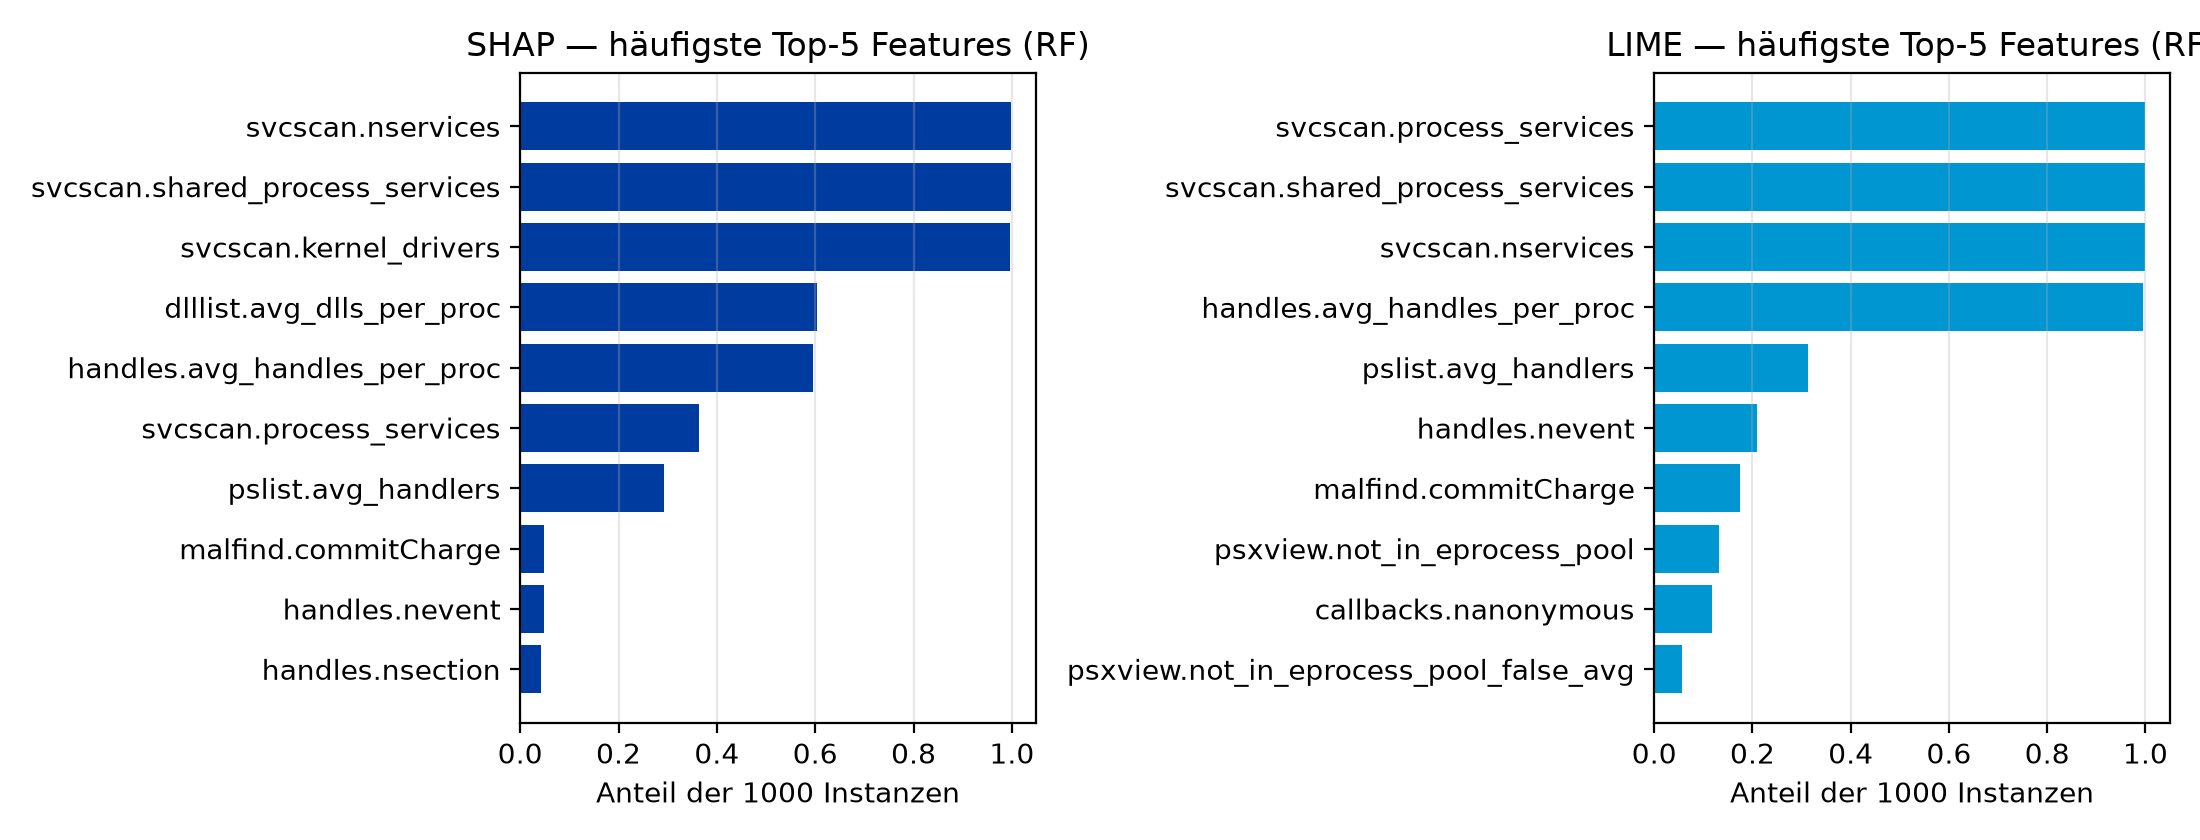
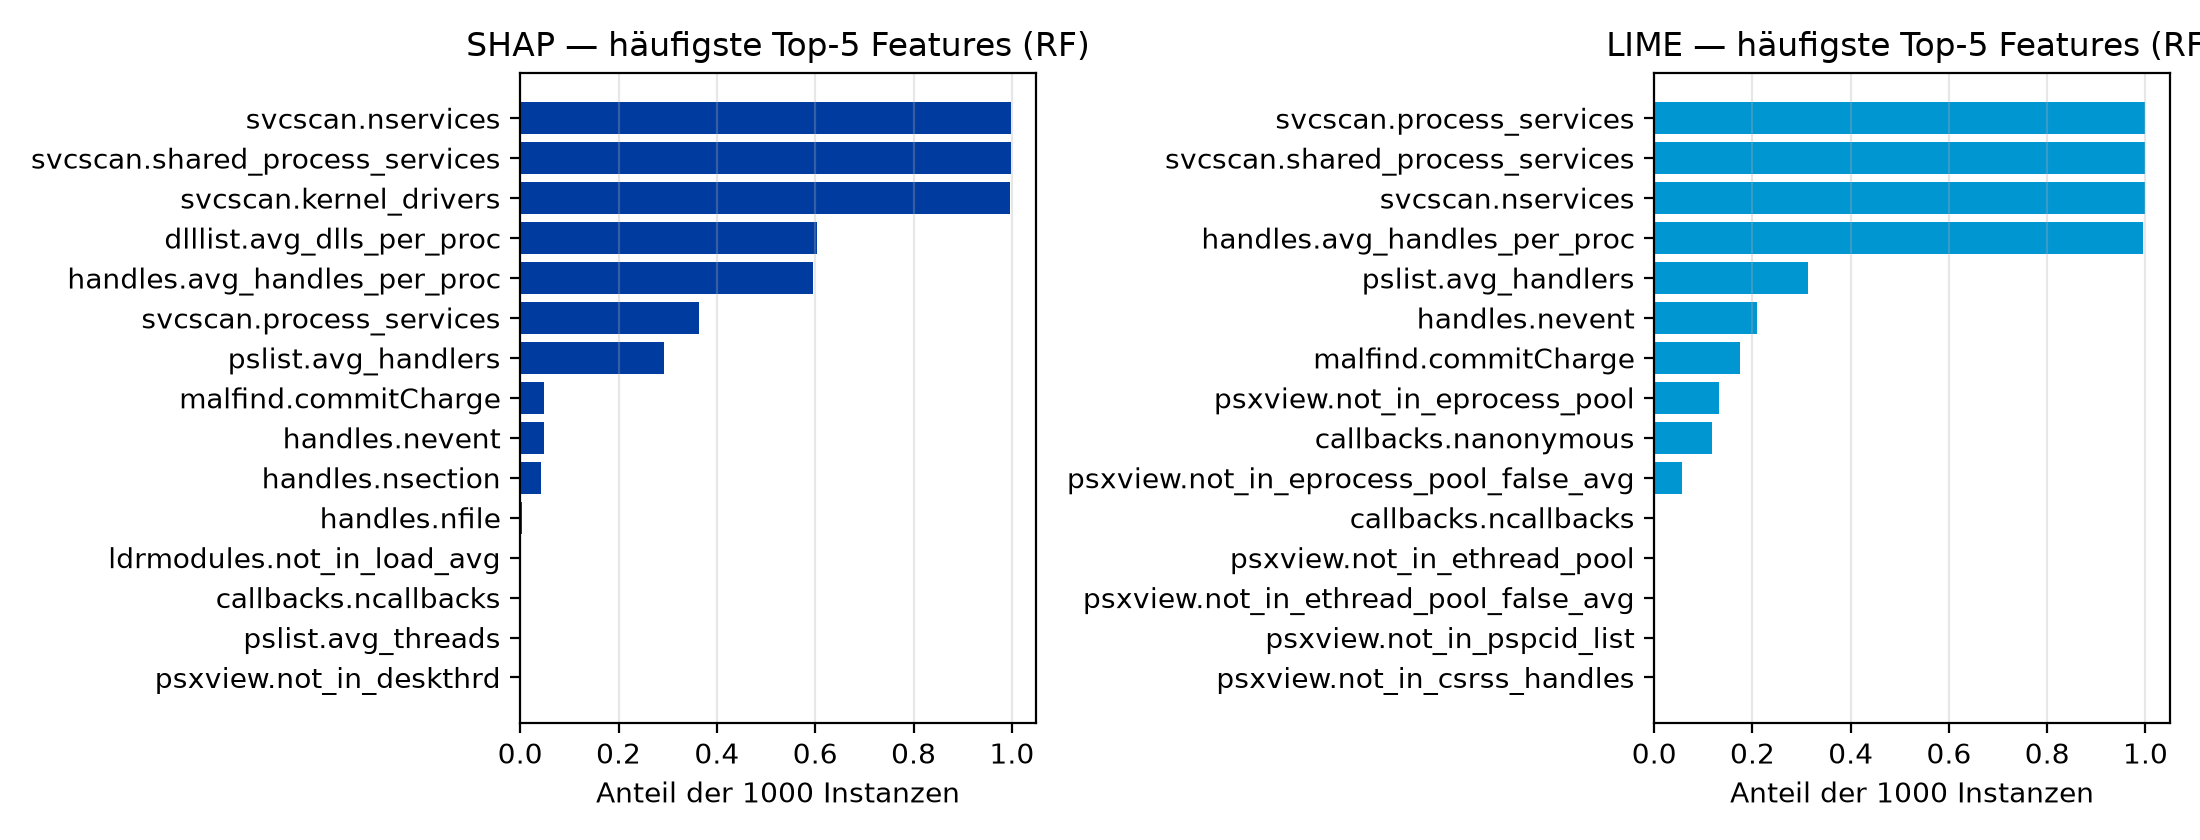
anpassungen

diff --git a/experiment.py b/experiment.py
@@ -465,13 +465,13 @@ fig.savefig(FIG_DIR / "fig4_jaccard.pdf")
 fig.savefig(FIG_DIR / "fig4_jaccard.png", dpi=200)
 plt.close(fig)
 
-# Fig. 5: Feature-Häufigkeit (Top-10 pro Explainer für RF) --------------- #
-def _top_features(df_ff, col, n=10):
+# Fig. 5: Feature-Häufigkeit (Top-15 pro Explainer für RF) --------------- #
+def _top_features(df_ff, col, n=15):
     return df_ff.sort_values(col, ascending=False).head(n).iloc[::-1]
 
 rf_ff = results["RF"]["feature_freq"]
-top_shap = _top_features(rf_ff, f"SHAP_top{FREQUENCY_K}_freq", n=10)
-top_lime = _top_features(rf_ff, f"LIME_top{FREQUENCY_K}_freq", n=10)
+top_shap = _top_features(rf_ff, f"SHAP_top{FREQUENCY_K}_freq", n=15)
+top_lime = _top_features(rf_ff, f"LIME_top{FREQUENCY_K}_freq", n=15)
 
 fig, axes = plt.subplots(1, 2, figsize=(11, 4.2))
 axes[0].barh(top_shap["Feature"], top_shap[f"SHAP_top{FREQUENCY_K}_freq"],
